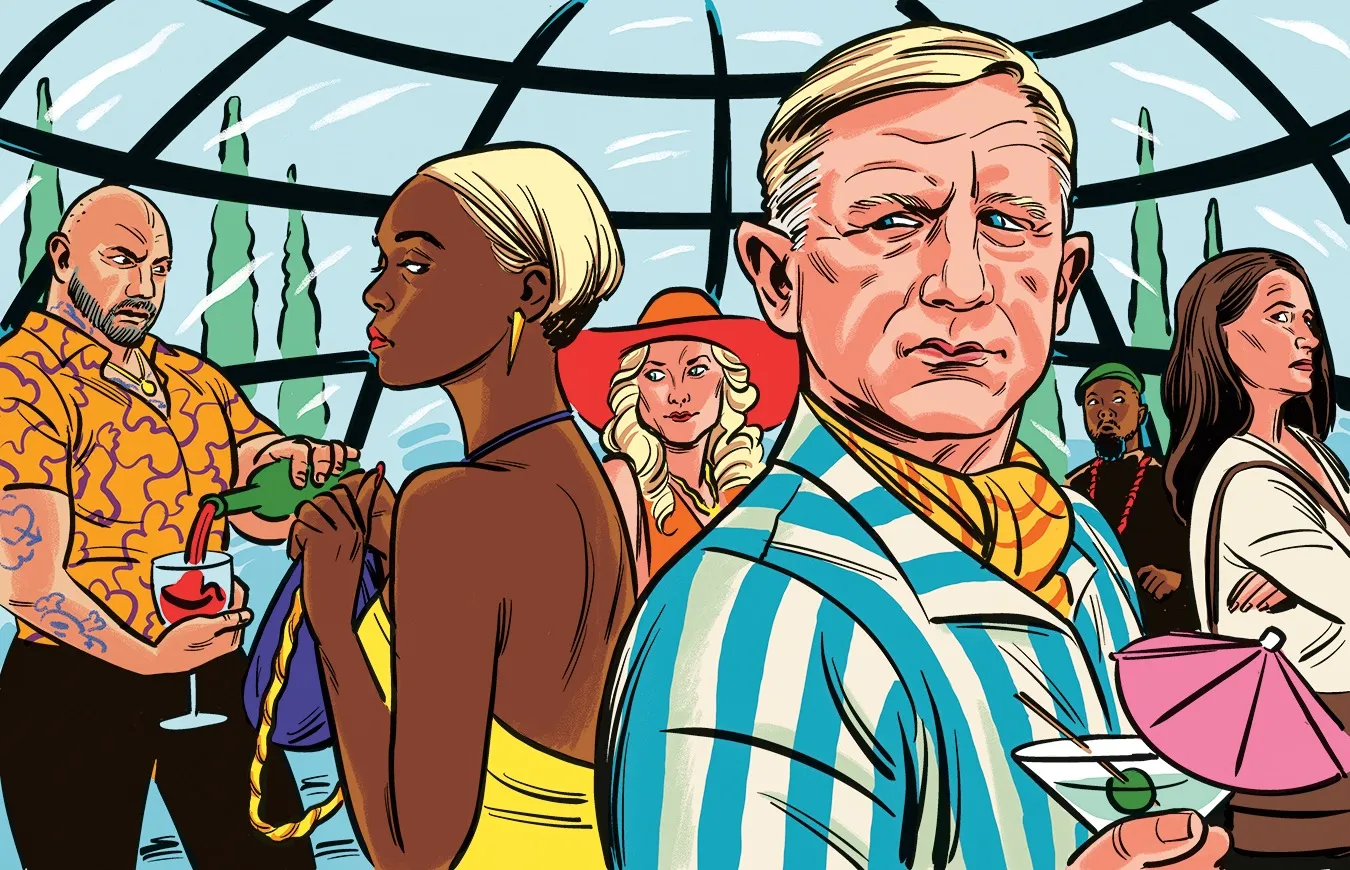
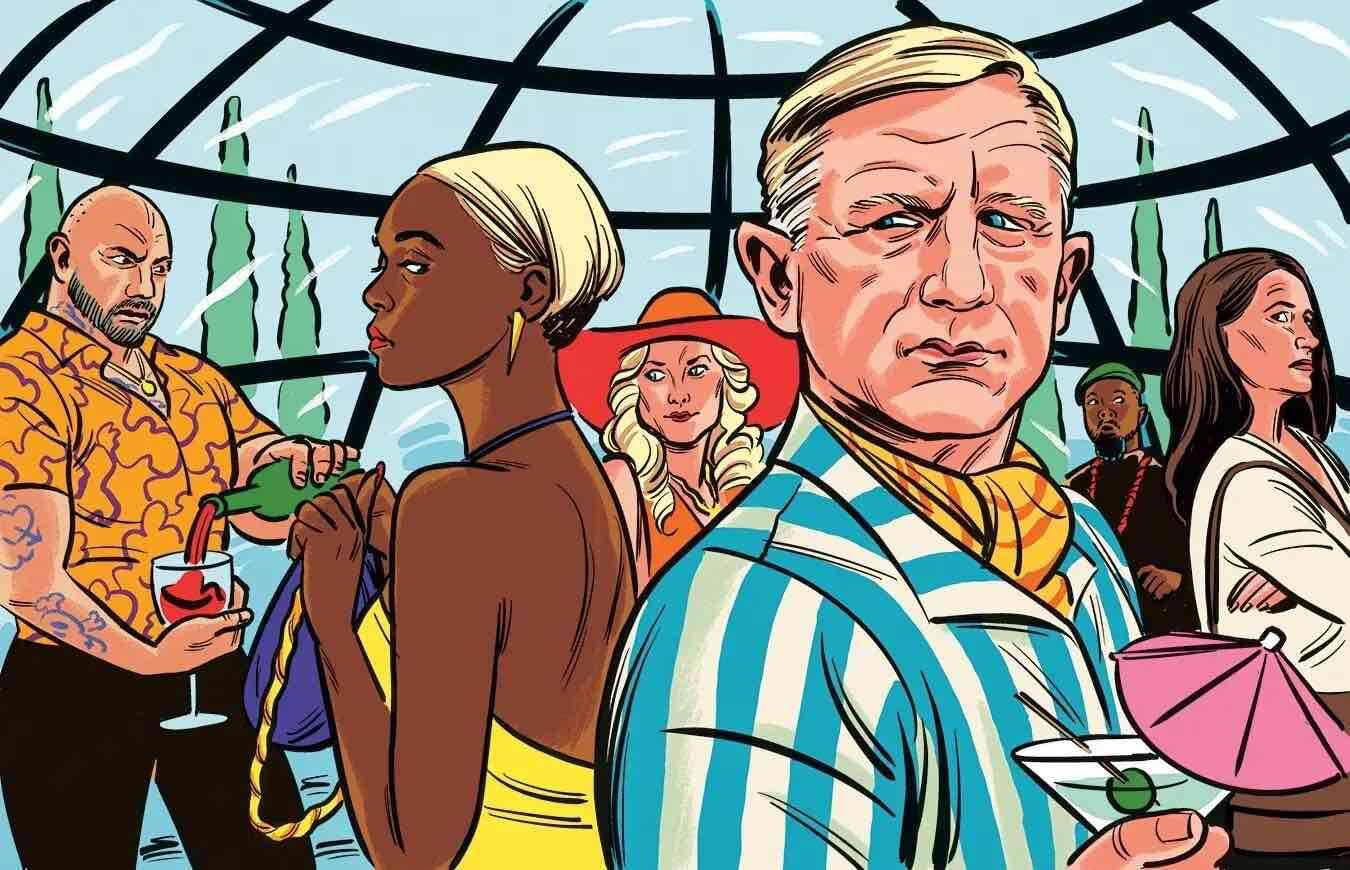
- Compressed Images to reduce page load time. - Edited styling for signin page to fit on one page.

diff --git a/pages/about.html b/pages/about.html
@@ -61,7 +61,7 @@
                     <a href="./games/clue.html">Knives Out: A Murder Mystery</a>
                 </li>
                 <li>
-                    <img src="../Images/SpellCraftersBoxart.png" alt="SpellCrafters-image">
+                    <img src="../Images/SpellCraftersBoxart.jpg" alt="SpellCrafters-image">
                     <a href="./games/Spellcrafters.html">SpellCrafters</a>
                 </li>
             </ul>

diff --git a/pages/games/Spellcrafters.html b/pages/games/Spellcrafters.html
@@ -29,7 +29,7 @@
         <section>
             <section class="game-header">
                 <h1>Spellcrafters</h1>
-                <img src="../../Images/SpellCraftersBoxart.png" alt="Box art for the game Spellcrafters">
+                <img src="../../Images/SpellCraftersBoxart.jpg" alt="Box art for the game Spellcrafters">
             </section>
             <section class="game-info">
                 <section class="game-about">

diff --git a/style.css b/style.css
@@ -263,7 +263,7 @@ section h3 {
     flex-direction: column;
     justify-content: center;
     align-items: center;
-    height: 90svh;
+    height: 71.45dvh;
     background-color: var(--dark);
 }
 
